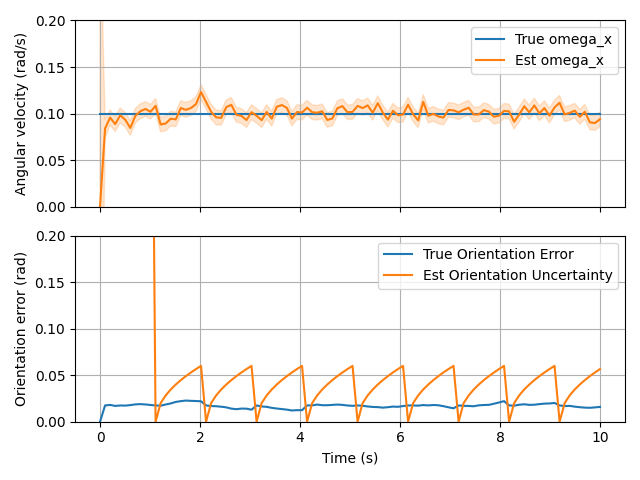
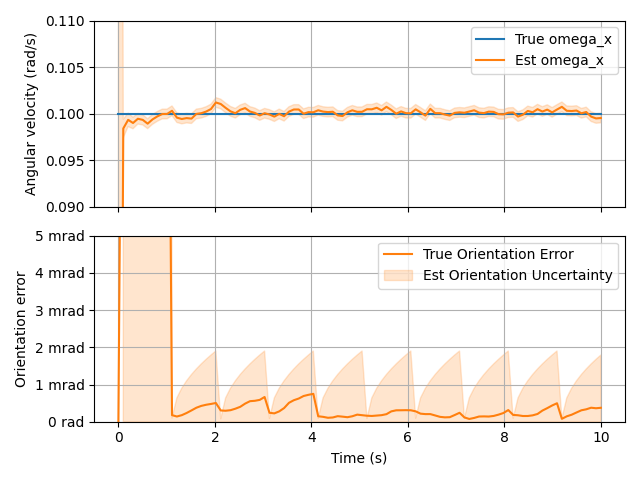
fix off-by-one-timestep error in sensing loop

diff --git a/src/autopilot/sensor.py b/src/autopilot/sensor.py
@@ -64,6 +64,9 @@ class IntermittentSensor(Sensor):
     
 class Gyroscope(Sensor):
     '''A sensor that directly reads angular velocity in the local frame.'''
+    # SMAD: biases typically 0.003 - 1 deg/hr (1.5e-8 - 5e-6 rad/s), drift in bias varies widely
+    # Mass: <0.1 - 15 kg
+    # Power: <1 to 200 W
 
     def __init__(self, constant_noise, randseed=None):
         super().__init__(3, constant_noise, randseed)
@@ -86,6 +89,9 @@ class Gyroscope(Sensor):
     
 class StarTracker(IntermittentSensor):
     '''An accurate orientation sensor that is only available at certain time intervals.'''
+    # SMAD: 1 arcsec - 1 arcmin (5e-6 - 3e-4 rad)
+    # Mass: 2-5 kg
+    # Power: 5-20 W
 
     # For Kalman filter
     H = np.zeros((4, sd.STATE_N))
@@ -129,9 +135,20 @@ class StarTracker(IntermittentSensor):
         return StarTracker.H
 
 class HorizonSensor(Sensor):
+    # SMAD: Scanning type 0.1 - 0.25 deg (2e-3 - 4e-3 rad) for LEO, down to 0.03 deg (5e-4 rad) in non LEO
+    # Mass: 2-5 kg
+    # Power: 5-10 W
+    
+    # Fixed type for rotating spacecraft: <0.1 - 0.25 deg (2e-3 - 4e-3 rad)
+    # Mass: 0.5 - 3.5 kg
+    # Power: 0.3 - 5 W
+
     pass # TODO
 
 class SunSensor(Sensor):
+    # SMAD: Accuracy 0.005 - 3 deg (1e-4 - 5e-2 rad)
+    # Mass: 0.1 - 2 kg
+    # Power: 0-3 W
     pass # TODO
 
 class GPSReceiver(Sensor):
@@ -141,22 +158,32 @@ class Radar(Sensor):
     pass # TODO
 
 class StateDeterminationSystem:
+    '''Sensor fusion system based around the Extended Kalman Filter.'''
+
     def __init__(self, sensors: list[Sensor], x, P, Q):
         self.sensors = sensors
         self.Q = Q
         self.EKF = kalman.ExtendedKalmanFilter(x, P, Q)
+        self.is_up_to_date = True # Whether self.EKF.x is better to use than self.EKF.xp
 
-    def update(self, true_state, start_time, dt, predicted_accel):
-        active_sensors = [s for s in self.sensors if s.is_available(true_state, start_time)]
+    def predict_step(self, dt, predicted_accel):
+        '''Run the prediction step of the EKF, propagating the estimated state by one timestep.
+        Updates EKF.xp and EKF.Pp, but not EKF.x or EKF.P'''
 
-        # Predict
-        xp, A = self._predict_next_state(dt, predicted_accel)
-        self.EKF.step(xp, A, self.Q)
+        xp = sd.RK4_step(self.EKF.x, dt, predicted_accel)
 
-        # Update
+        A = kalman.make_state_transition_matrix(dt, self.EKF.x)
+        self.EKF.predict_step(xp, A, self.Q)        
+        sd.normalize_quat_part(self.EKF.x)
+        self.is_up_to_date = False
+
+    def sense(self, true_state, timestamp):
+        '''Take a reading from all available sensors, updating the EKF.'''
+        active_sensors = [s for s in self.sensors if s.is_available(true_state, timestamp)]
         H  = np.vstack(tuple(s.linearized_model(self.EKF.xp) for s in active_sensors))
         zp = np.concat(tuple(s.predict_reading(self.EKF.xp) for s in active_sensors)).T
         z  = np.concat(tuple(s.new_reading(true_state) for s in active_sensors)).T
+        
         # assemble R
         R = np.eye(z.size)
         i = 0
@@ -165,16 +192,13 @@ class StateDeterminationSystem:
             inds = slice(i, i+R_sensor.shape[0])
             R[inds, inds] = R_sensor
             i += R_sensor.shape[0]
+
         self.EKF.process_observation(z, zp, H, R)
         sd.normalize_quat_part(self.EKF.x)
-
-    def _predict_next_state(self, dt, predicted_accel):
-        # Could use RK4 but ehh
-        xp = self.EKF.x.copy()
-        xp[sd.VELS] += predicted_accel * dt
-        xp[sd.POS] += xp[sd.VEL] * dt
-        sd.rotate_state(xp, quat.from_rotation_vector(xp[sd.ANGVEL] * dt))
-        return xp, kalman.make_state_transition_matrix(dt, self.EKF.x)
+        self.is_up_to_date = True
 
     def get_current_state_estimate(self):
-        return self.EKF.x, self.EKF.P
+        if self.is_up_to_date:
+            return self.EKF.x, self.EKF.P
+        else:
+            return self.EKF.xp, self.EKF.Pp

diff --git a/src/autopilot/main.py b/src/autopilot/main.py
@@ -1,8 +1,8 @@
 
-import itertools
 import numpy as np
 import quaternion as quat
 import matplotlib.pyplot as plt
+import matplotlib.ticker as tck
 
 import ship, thruster, controller, sensor
 import state_def as sd
@@ -46,18 +46,20 @@ def scenario_sensing():
 
     state = sd.make_zero_state()
     state[sd.ANGVEL] = [0.1, 0.1, 0.1]
-    gyro = sensor.Gyroscope(0.01, randseed)
-    star_tracker = sensor.StarTracker(1e-6, 1, randseed)
+    gyro = sensor.Gyroscope(1e-3, randseed)
+    star_tracker = sensor.StarTracker(1e-4, 1, randseed)
     sds = sensor.StateDeterminationSystem(
         [gyro, star_tracker], sd.make_zero_state(), 0.1*np.eye(sd.STATE_N), 
-        1e-4 * np.eye(sd.STATE_N) # if Q is zero then P tends to become singular in the Kalman filter
+        1e-7 * np.eye(sd.STATE_N) # if Q is zero then P tends to become singular in the Kalman filter
     )
     ship_ = ship.Ship(state, 1, np.eye(3), state_det_system=sds)
 
     hist = sim_tools.History(num_steps, {
-        'true_state': ship_.state,
+        'true_state': lambda: ship_.state,
         'est_state': lambda: sds.get_current_state_estimate()[0],
         'est_state_cov': lambda: sds.get_current_state_estimate()[1],
+        # 'est_state': lambda: sds.EKF.x,
+        # 'est_state_cov': lambda: sds.EKF.P,
     })
     sim_tools.run_simulation(time, ship_.update, hist)
 
@@ -65,32 +67,34 @@ def scenario_sensing():
     ang_sd = np.sqrt(hist['est_state_cov'][:, sd.ANGVEL.start, sd.ANGVEL.start])
     ori_true = sd.get_orient(hist['true_state'])
     ori_est = sd.get_orient(hist['est_state'])
-    ori_err = 2*np.acos(quat.as_float_array(ori_true * ori_est.conj())[:, 0]) # radians from est to true
-    ori_component_sd = np.sqrt(np.diagonal(hist['est_state_cov'][:, sd.ORIENT, sd.ORIENT], axis1=-2, axis2=-1))
+    ori_err_quat = quat.as_float_array(ori_true * ori_est.conj())
+    ori_err_angle = 2*np.acos(ori_err_quat[:, 0]) # radians from est to true
+    ori_component_sd = np.sqrt(
+        np.diagonal(hist['est_state_cov'][:, sd.ORIENT, sd.ORIENT], axis1=-2, axis2=-1))
     ori_rss_z = np.linalg.norm(quat.as_float_array(ori_true - ori_est)/ori_component_sd, axis=-1)
-    ori_stdev = ori_err/ori_rss_z
+    ori_stdev = ori_err_angle/ori_rss_z
+    uncertainty_transparency = 0.2
     
     fig, axs = plt.subplots(2, sharex=True)
     ax_ang, ax_ori = axs
     ax_ang.plot(time, hist['true_state'][:, sd.ANGVEL.start], label='True omega_x')
     ax_ang.plot(time, ang_est, label='Est omega_x')
-    ax_ang.fill_between(time, ang_est - ang_sd, ang_est + ang_sd, alpha=0.2, color='C1')
+    ax_ang.fill_between(time, ang_est - ang_sd, ang_est + ang_sd, 
+                        alpha=uncertainty_transparency, color='C1')
     ax_ang.set_ylabel('Angular velocity (rad/s)')
     ax_ang.legend()
     ax_ang.grid()
-    ax_ang.set_ylim(0, 0.2)
-    ax_ori.plot(time, ori_err, label='True Orientation Error')
-    ax_ori.plot(time, ori_stdev, label='Est Orientation Uncertainty')
+    ax_ang.set_ylim(0.09, 0.11)
+    ax_ori.plot(time, ori_err_angle, label='True Orientation Error', color='C1')
+    ax_ori.fill_between(time, 0, ori_stdev, label='Est Orientation Uncertainty', 
+                        color='C1', alpha=uncertainty_transparency)
+    # ax_ori.plot(time, ori_err_quat[:, 1:], label='Error Quat Components')
     ax_ori.grid()
     ax_ori.set_xlabel('Time (s)')
-    ax_ori.set_ylabel('Orientation error (rad)')
-    ax_ori.set_ylim(0, 0.2)
+    ax_ori.set_ylabel('Orientation error')
+    ax_ori.set_ylim(0, 0.005)
+    ax_ori.yaxis.set_major_formatter(tck.EngFormatter('rad'))
     ax_ori.legend()
-    # ori2_color='C1'
-    # ax_or2 = ax_ori.twinx()
-    # ax_or2.semilogy(time, ori_rss_z, color=ori2_color)
-    # ax_or2.set_ylabel('Orientation error z-score\n(Components RMS)', color=ori2_color)
-    # ax_or2.tick_params(axis='y', labelcolor=ori2_color)
     fig.tight_layout()
 
     plt.show()

diff --git a/src/autopilot/ship.py b/src/autopilot/ship.py
@@ -30,49 +30,28 @@ class Ship:
             start_time: time at beginning of timestep
             dt: length of timestep
             '''
+        # Physics
+        self.state = sd.RK4_step(self.state, dt, self.calc_accel)
+        
+        # Predict
         if self.state_det_system is not None:
-            self.state_det_system.update(self.state, start_time, dt, self.calc_accel(self.state))
+             self.state_det_system.predict_step(dt, self.calc_accel)
+
+        # Sense
+        if self.state_det_system is not None:
+            self.state_det_system.sense(self.state, start_time)
             self.state_estimate = self.state_det_system.get_current_state_estimate()
         else:
+            # No sensor system, just use an ideal dummy sensor system
             self.state_estimate = (self.state, np.zeros((self.state.size, self.state.size)))
-        if self.controller is not None:
-            self.controller.update(self.state, dt)
-        self.do_motion_timestep(dt)
-
-    def do_motion_timestep(self, dt):
-        '''Update ship state according to RK4 integration of the equations of motion'''
-        # RK4 ish
-        # Call old conditions a0, v0, q0
-        # Step 1 with dt/2, a0 -> v[0 -> 1] -> q[0 -> 1] -> a1
-        accel0 = self.calc_accel(self.state)
-        state1 = self.state.copy()
-        state1[sd.VELS] += accel0*dt/2
-        state1[sd.POS] += state1[sd.VEL]*dt/2
-        sd.rotate_state(state1, quat.from_rotation_vector(state1[sd.ANGVEL]*dt/2))
-        accel1 = self.calc_accel(state1)
-        # Step 2 with dt/2, a1 -> v[0 -> 2] -> q[0 -> 2] -> a2 
-        state2 = self.state.copy()
-        state2[sd.VELS] += accel1*dt/2
-        state2[sd.POS] += state2[sd.VEL]*dt/2
-        sd.rotate_state(state2, quat.from_rotation_vector(state2[sd.ANGVEL]*dt/2))
-        accel2 = self.calc_accel(state2)
-        # Step 3 with dt, a2 -> v[0 -> 3] -> q[0 -> 3] -> a3
-        state3 = self.state.copy()
-        state3[sd.VELS] += accel2*dt/2
-        state3[sd.POS] += state3[sd.VEL]*dt
-        sd.rotate_state(state3, quat.from_rotation_vector(state3[sd.ANGVEL]*dt/2))
-        accel3 = self.calc_accel(state3)
-        # Step 4 with dt, fractional weights
-        self.state[sd.POS] += dt/6 * (self.state[sd.VEL] + 2*state1[sd.VEL] + 2*state2[sd.VEL] + state3[sd.VEL])
-        sd.rotate_state(self.state, quat.from_rotation_vector(dt/6 * (self.state[sd.ANGVEL] + 2*state1[sd.ANGVEL] + 2*state2[sd.ANGVEL] + state3[sd.ANGVEL])))
-        self.state[sd.VELS] += dt/6 * (accel0 + 2*accel1 + 2*accel2 + accel3)
         
-        # normalize orientation quaternion
-        # self.state[sd.ORIENT] /= np.linalg.norm(self.state[sd.ORIENT])
-        sd.normalize_quat_part(self.state)
+        # Control
+        if self.controller is not None:
+            self.controller.update(self.state_estimate[0], dt)
 
     def calc_accel(self, state) -> np.ndarray:
-        '''Calculates the linear and angular acceleration (total shape (6,)) from actors on the current state'''
+        '''Calculates the linear and angular acceleration (total shape (6,)) 
+        from ship properties and the given state'''
         result = np.zeros((sd.QDOT_N,))
         # rotation_matrix = quat.as_rotation_matrix(sd.get_orient(self.state))
         # world_inertia_matrix = rotation_matrix @ self.inertia_matrix @ rotation_matrix.T

diff --git a/src/autopilot/state_def.py b/src/autopilot/state_def.py
@@ -80,3 +80,46 @@ def change_to_frame(frame: np.array, other: np.array):
     result[VEL] = rotation_into_frame_m @ (other[VEL] - frame[VEL]) - np.cross(frame[ANGVEL], result[POS])
     result[ANGVEL] = rotation_into_frame_m @ (other[ANGVEL] - frame[ANGVEL])
     return result
+
+def RK4_step(state, dt, accel_calculator):
+    '''Propagate the given state given an acceleration function.
+    
+    Parameters:
+        state: State at the start of timestep (will not be modified in-place)
+        dt: Length of timestep
+        accel_calculator: function matching accel_calculator(some_state) -> [linear and angular acceleration]
+    Returns:
+        A new state vector at end of timestep
+    '''
+    # RK4 ish
+    # Call old conditions a0, v0, q0
+    # Step 1 with dt/2, a0 -> v[0 -> 1] -> q[0 -> 1] -> a1
+    accel0 = accel_calculator(state)
+    state1 = state.copy()
+    state1[VELS] += accel0*dt/2
+    state1[POS] += state1[VEL]*dt/2
+    rotate_state(state1, quat.from_rotation_vector(state1[ANGVEL]*dt/2))
+    accel1 = accel_calculator(state1)
+    # Step 2 with dt/2, a1 -> v[0 -> 2] -> q[0 -> 2] -> a2 
+    state2 = state.copy()
+    state2[VELS] += accel1*dt/2
+    state2[POS] += state2[VEL]*dt/2
+    rotate_state(state2, quat.from_rotation_vector(state2[ANGVEL]*dt/2))
+    accel2 = accel_calculator(state2)
+    # Step 3 with dt, a2 -> v[0 -> 3] -> q[0 -> 3] -> a3
+    state3 = state.copy()
+    state3[VELS] += accel2*dt/2
+    state3[POS] += state3[VEL]*dt
+    rotate_state(state3, quat.from_rotation_vector(state3[ANGVEL]*dt/2))
+    accel3 = accel_calculator(state3)
+    # Step 4 with dt, fractional weights
+
+    result = state.copy()
+    result[POS] += dt/6 * (state[VEL] + 2*state1[VEL] + 2*state2[VEL] + state3[VEL])
+    rotate_state(result, quat.from_rotation_vector(dt/6 * (result[ANGVEL] + 2*state1[ANGVEL] + 2*state2[ANGVEL] + state3[ANGVEL])))
+    result[VELS] += dt/6 * (accel0 + 2*accel1 + 2*accel2 + accel3)
+    
+    # normalize orientation quaternion
+    # state[ORIENT] /= np.linalg.norm(state[ORIENT])
+    normalize_quat_part(result)
+    return result

diff --git a/src/autopilot/kalman.py b/src/autopilot/kalman.py
@@ -84,11 +84,11 @@ class KalmanFilter:
         assert np.shape(self.A) == np.shape(self.P)
         assert np.shape(self.Q) == np.shape(self.A)
 
-        self.xp = np.full_like(self.x, np.nan)
-        self.Pp = np.full_like(self.P, np.nan)
+        self.xp = self.x.copy()
+        self.Pp = self.P.copy()
         self.K = np.full_like(np.transpose(self.H), np.nan)
 
-    def step(self, A: np.ndarray = None, Q: np.ndarray = None):
+    def predict_step(self, A: np.ndarray = None, Q: np.ndarray = None):
         '''Update the filter by predicting the next state vector (advance one timestep).
         
         Parameters:
@@ -164,7 +164,7 @@ class ExtendedKalmanFilter(KalmanFilter):
         super().__init__(x, P, A, Q, H, R)
         self.zp = np.nan
 
-    def step(self, xp, A=None, Q=None):
+    def predict_step(self, xp, A=None, Q=None):
         '''Update the filter by predicting the next state vector (advance one timestep).
         
         Parameters:
@@ -248,7 +248,7 @@ if __name__ == '__main__':
         })
         A = np.eye(2)
         for i in range(num_steps):
-            kalman_filter.step(A)
+            kalman_filter.predict_step(A)
             kalman_filter.process_observation(noisy_observations[i])
             hist.save_timestep(i)
 
